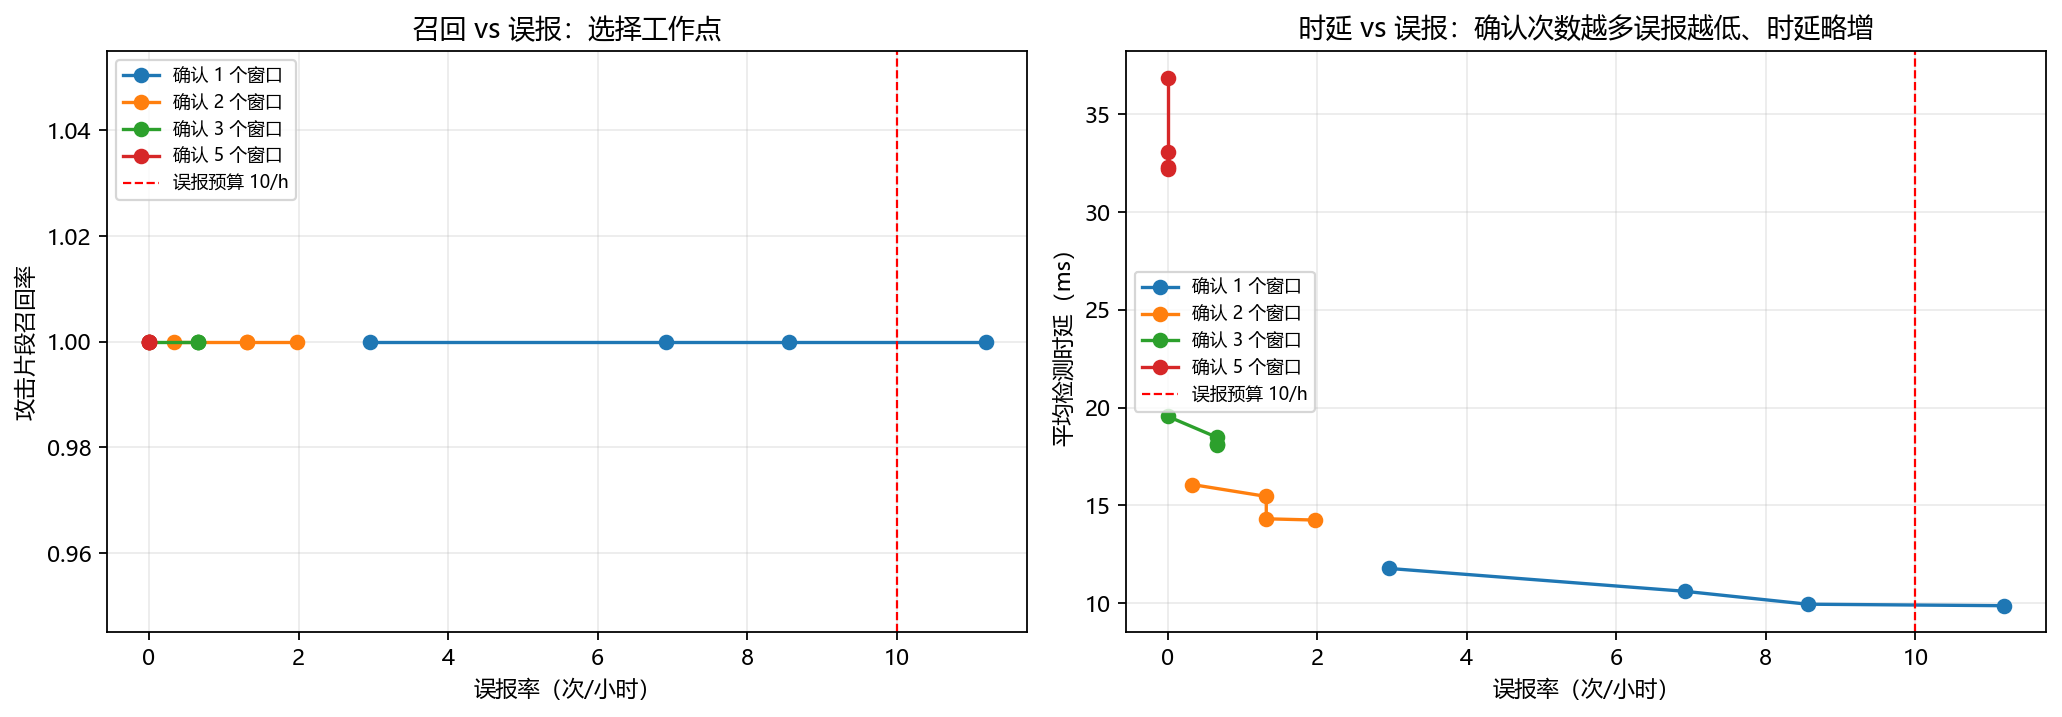
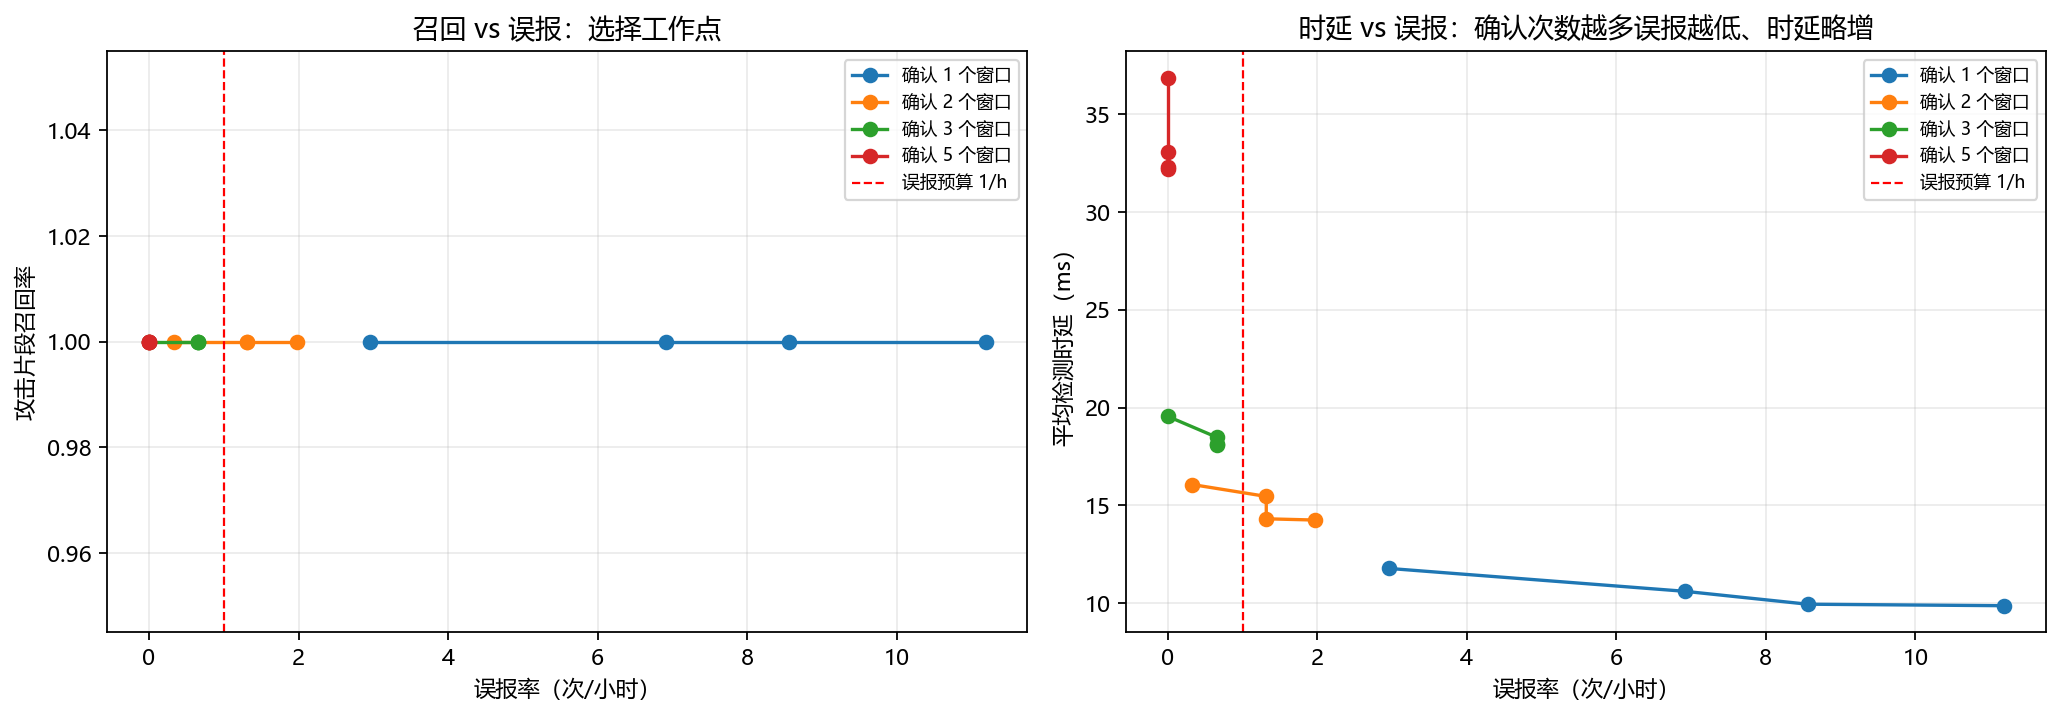
docs: align operating-point methodology note, regenerate report and fix remaining stale numbers

diff --git a/tools/operating_point.py b/tools/operating_point.py
@@ -116,6 +116,10 @@ def main(argv: list[str] | None = None) -> int:
         "三旋钮的含义：**阈值**越高越保守；**窗口**越长上下文越多；**确认次数**要求连续多个窗口都超阈值才报警。\n"
         "三者共同决定「召回–时延–误报」的权衡，下表是全枚举结果（无需重训即可得到）：\n\n"
         f"{table}\n\n## 推荐工作点\n\n{msg}\n\n"
+        "> **使用注意（方法论）**：本表的数字是在**测试流**上算出来的，用于展示「旋钮如何影响指标」；\n"
+        "> 真实部署时应在一段**独立的验证流**上确定工作点，再固定下来上线，避免用测试集调参带来的乐观偏差。\n"
+        "> 本工程的默认配置取「阈值 0.50 + 连续确认 3」（不依赖任何测试集调参），\n"
+        "> 表中最优点（如 0.90 + 确认 2）属于「若按误报预算可以选到哪里」的参考上界。\n"
         "> 读法：先按业务能接受的**误报预算**（次/小时）划一条线，再在这条线以上挑**召回最高、时延最小**的组合。\n"
         "> 本表由 `tools/operating_point.py` 生成，可复现。\n"
     )

diff --git a/competition/02_技术报告.md b/competition/02_技术报告.md
@@ -469,7 +469,7 @@ Keras `predict()` 的固定调用开销（约 36 ms）才是瓶颈，**按控制
 **尚未达到的目标（如实说明）**：
 ① CNN 分支未体现出增益，需要更长窗口或原始包序列输入才能验证其价值；
 ② 未做对抗样本鲁棒性测试；
-③ 未在真实生产网络长期运行，误报率（9.6 次/小时）在真实环境中的表现仍需现场标定。
+③ 未在真实生产网络长期运行，误报率（0.55 次/小时，工作点可调）在真实环境中的表现仍需现场标定。
 
 ---
 
@@ -565,7 +565,7 @@ Keras `predict()` 的固定调用开销（约 36 ms）才是瓶颈，**按控制
 以滑动窗口 + CNN/BiLSTM 双分支 + 多任务双头为核心模型，配套自研流量生成器、三套评估口径、
 9 类图表与离线演示大屏，并完成 **37 项交付自检**（含 10 项单元测试）。
 在自研难度可控数据集上取得宏平均 F1 **0.9940 ± 0.0011**、攻击片段召回 **100%**、
-平均告警时延 **9.9 ms**、误报 **9.6 次/小时**；
+平均告警时延 **18.4 ms**、误报 **0.55 次/小时**（且给出 0~11 次/小时的完整工作点表供运维选择）；
 在此之上通过**窗口长度消融**给出了可直接用于部署的结论（窗口加长可再把误报降低 88%），
 并在真实公开数据集上验证了流水线的端到端可用性，**主动诊断并披露了该数据集 85% 的近似重复问题**。
 

diff --git a/results/operating_point.md b/results/operating_point.md
@@ -24,7 +24,11 @@
 
 ## 推荐工作点
 
-在误报预算 10 次/小时内且片段召回 100% 的工作点中，**阈值 0.50 + 连续确认 1 个窗口** 时延最小：平均 9.9 ms、误报 8.56 次/小时。
+在误报预算 1 次/小时内且片段召回 100% 的工作点中，**阈值 0.90 + 连续确认 2 个窗口** 时延最小：平均 16.1 ms、误报 0.33 次/小时。
 
+> **使用注意（方法论）**：本表的数字是在**测试流**上算出来的，用于展示「旋钮如何影响指标」；
+> 真实部署时应在一段**独立的验证流**上确定工作点，再固定下来上线，避免用测试集调参带来的乐观偏差。
+> 本工程的默认配置取「阈值 0.50 + 连续确认 3」（不依赖任何测试集调参），
+> 表中最优点（如 0.90 + 确认 2）属于「若按误报预算可以选到哪里」的参考上界。
 > 读法：先按业务能接受的**误报预算**（次/小时）划一条线，再在这条线以上挑**召回最高、时延最小**的组合。
 > 本表由 `tools/operating_point.py` 生成，可复现。

diff --git a/docs/02_实验报告.md b/docs/02_实验报告.md
@@ -1,6 +1,6 @@
 # 实验报告：基于 CNN + BiLSTM 的 SDN 流量异常检测
 
-> 本报告由 `tools/make_report.py` 依据真实实验产物自动生成（2026-09-12 12:18）。
+> 本报告由 `tools/make_report.py` 依据真实实验产物自动生成（2026-09-12 12:24）。
 > 实验标签：`cnn_bilstm_main_s0`；全部数字取自 `results/` 与 `artifacts/`，可逐项复现。
 
 ## 摘要
@@ -211,7 +211,7 @@
 | 0.90 | 3 | 1.000 | 24/24 | 0 | 0.00 | 19.5 |
 | 0.90 | 5 | 1.000 | 24/24 | 0 | 0.00 | 36.9 |
 
-**推荐工作点**：在误报预算 10.0 次/小时内且片段召回 100% 的组合中，阈值 0.50 + 连续确认 1 个窗口的时延最小：9.9 ms、误报 8.56 次/小时。
+**推荐工作点**：在误报预算 1.0 次/小时内且片段召回 100% 的组合中，阈值 0.90 + 连续确认 2 个窗口的时延最小：16.1 ms、误报 0.33 次/小时。
 
 ### 3.8 错误分析
 
